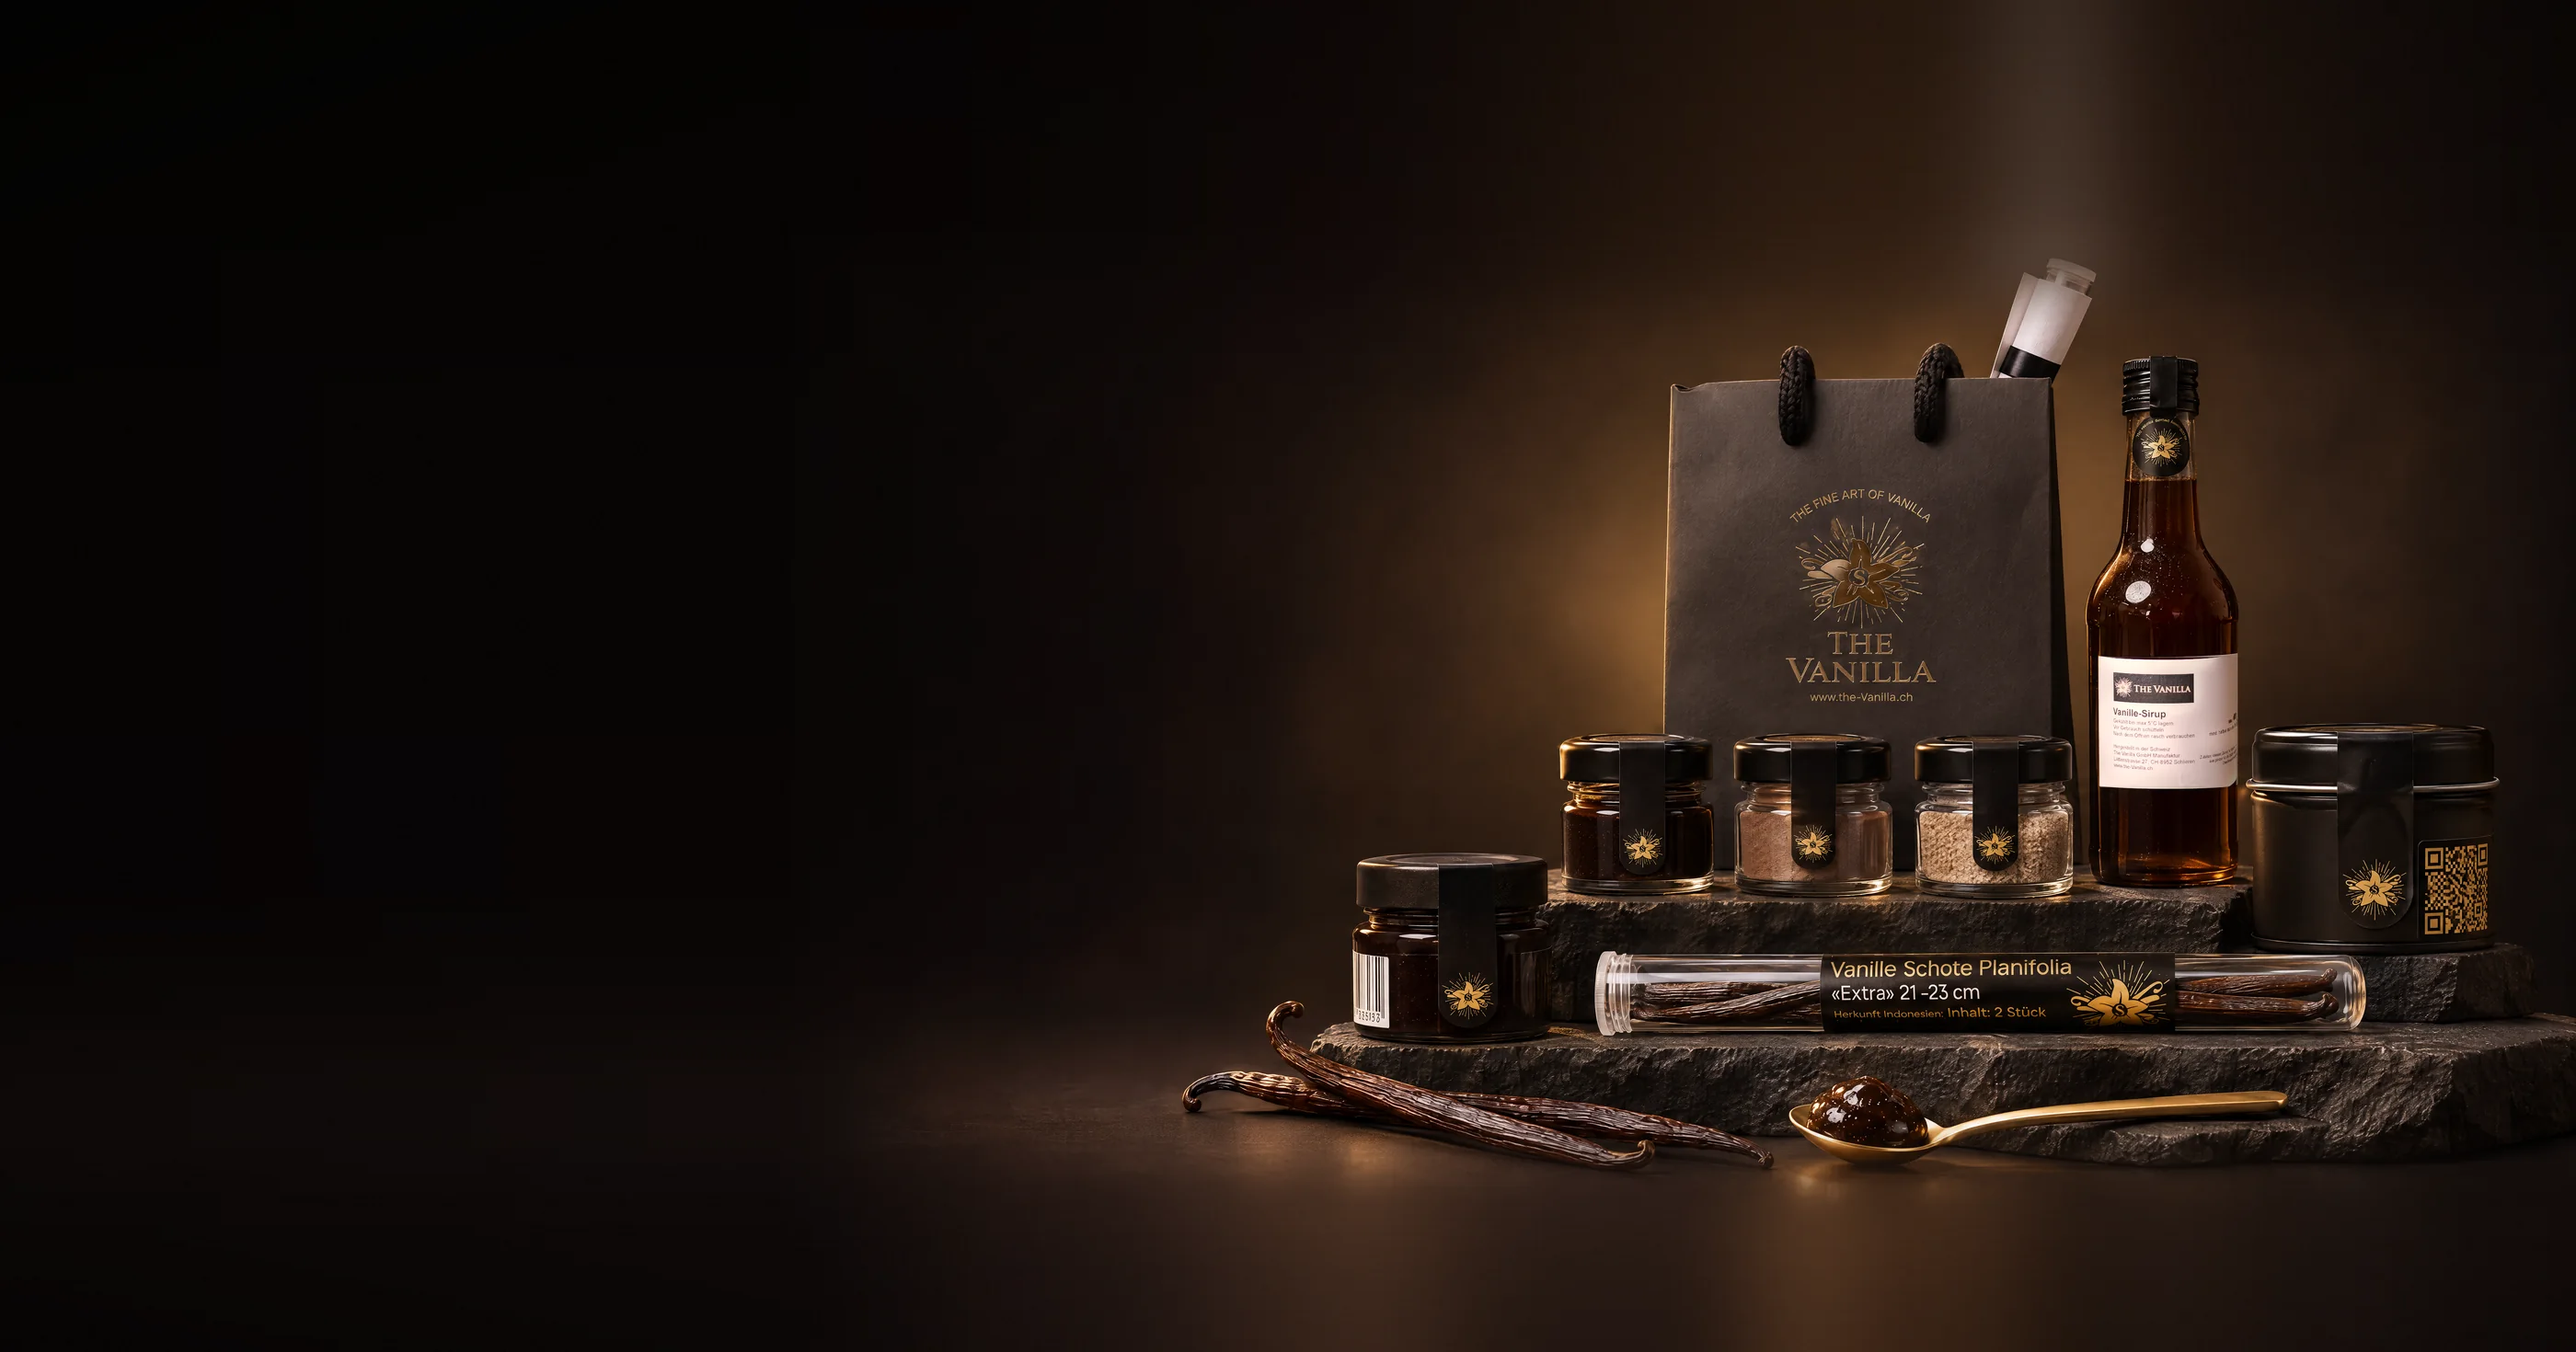
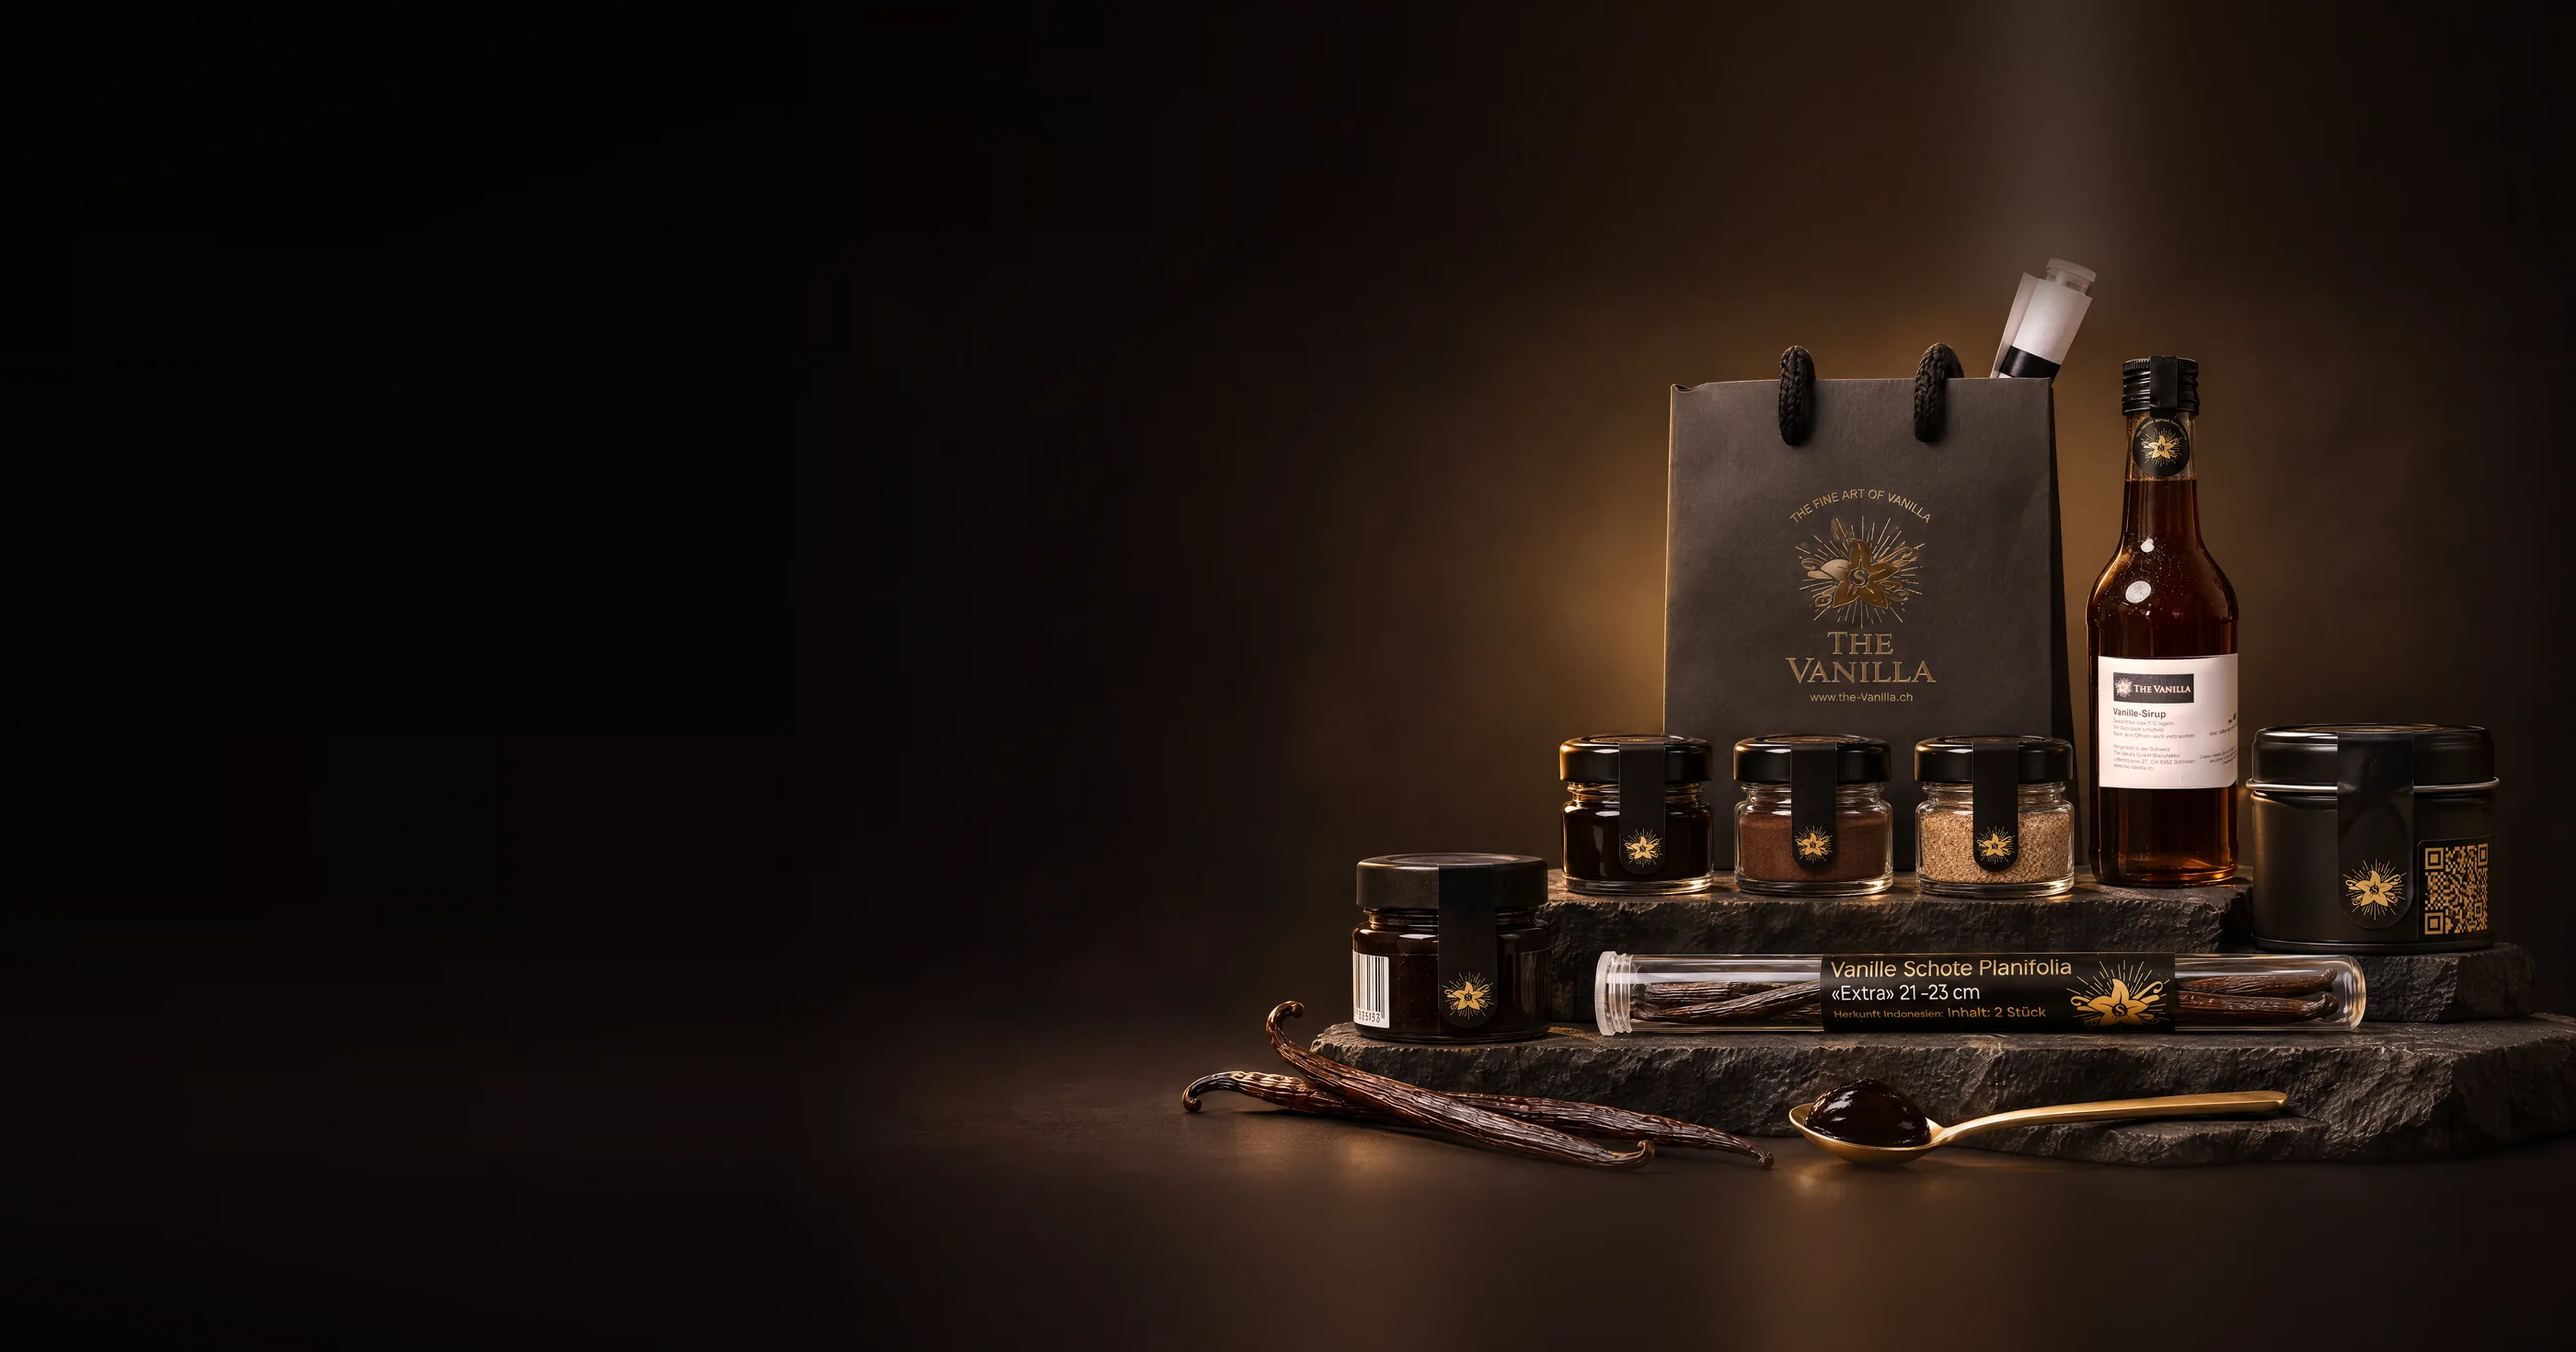
Black Friday: Glasinhalte und Paste auf dem Loeffel korrigiert

diff --git a/black-friday.html b/black-friday.html
@@ -822,8 +822,8 @@ footer ul a{color:rgba(255,255,255,.72);font-size:.92rem;transition:color .2s}fo
 
 <section class="bf-hero" id="top">
   <picture class="bf-bild" aria-hidden="true">
-    <source media="(max-width:900px)" srcset="img/bf/bf-hero-handy.webp?v=5">
-    <img src="img/bf/bf-hero.webp?v=5" alt="" fetchpriority="high">
+    <source media="(max-width:900px)" srcset="img/bf/bf-hero-handy.webp?v=6">
+    <img src="img/bf/bf-hero.webp?v=6" alt="" fetchpriority="high">
   </picture>
   <div class="bf-grain" aria-hidden="true"></div>
   <div class="wrap bf-hero-in">
